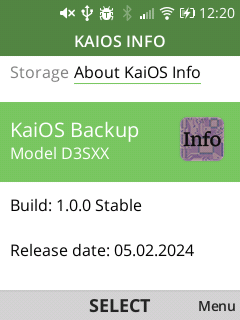
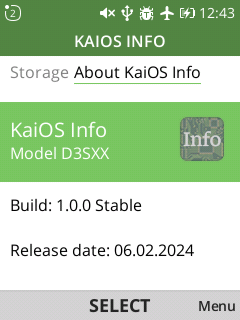
fix typo

diff --git a/src/index.js b/src/index.js
@@ -899,7 +899,7 @@ const menu = {
       case 11:
         menu = `<ul>
         <li id = "1" style="height:80px;"><p style="font-size:20px; position:absolute; top:70px">
-        KaiOS Backup</p>
+        KaiOS Info</p>
         <p style="top:100px;position:absolute;">${localeData[4]["1"]} D3SXX</p>
         <img src="../assets/icons/KaiOS-Info_56.png" style="position:absolute; right:10px; top:85px">
         </li>
